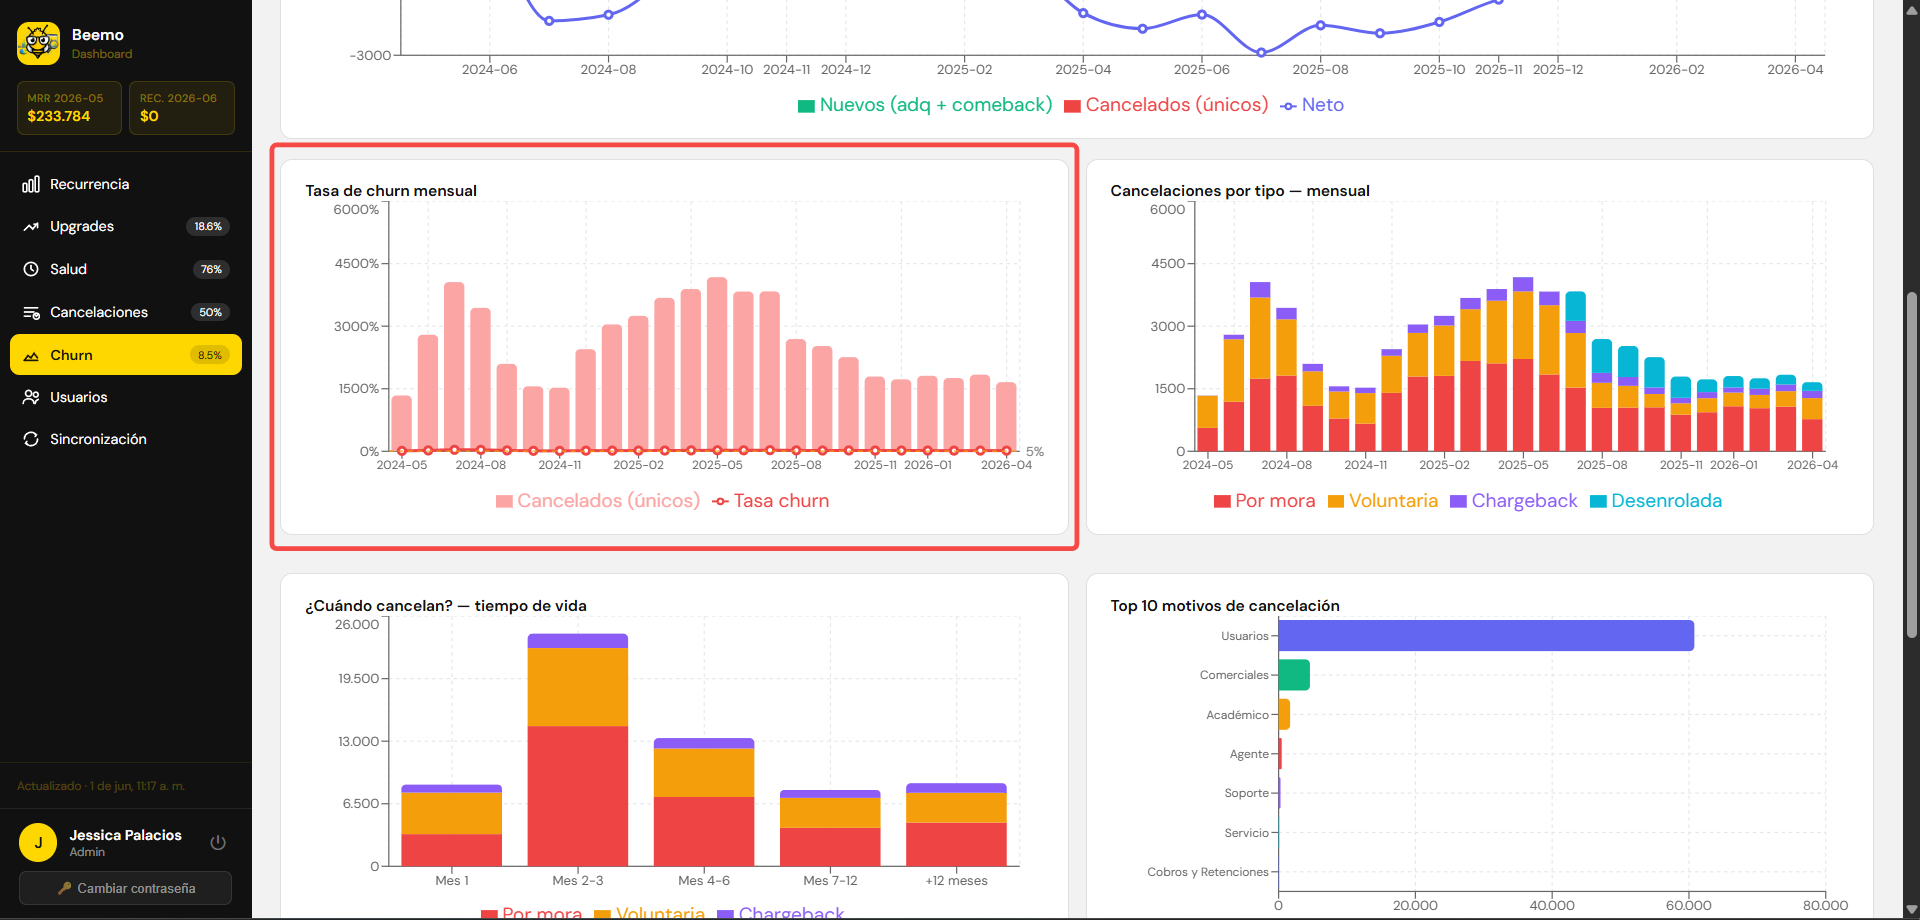
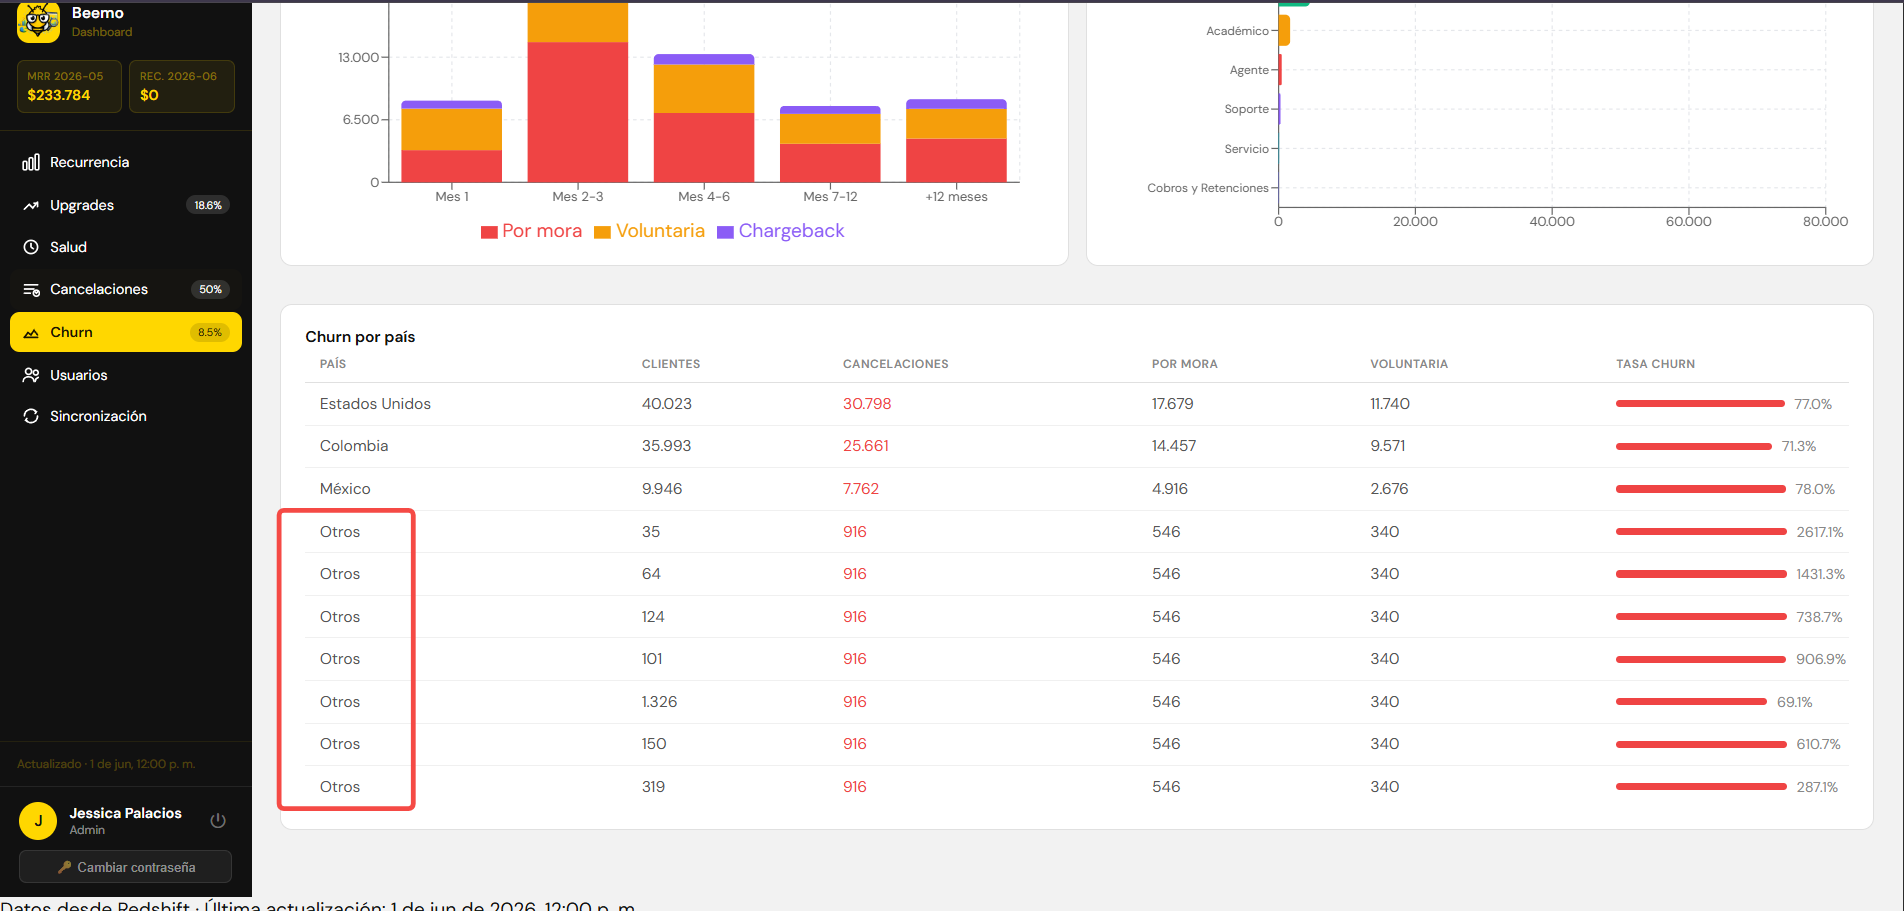
Fix: limitar vista de Churn al mes anterior para evitar distorsión Co-Authored-By: Claude Opus 4.8 <[email redacted]>

diff --git a/src/App.js b/src/App.js
@@ -424,7 +424,10 @@ function ChurnTab({data}){
   // Flujo combinado
   const mesesSet = new Set([...Object.keys(nuevosMes), ...Object.keys(cancelMes)]);
   const flujoData = Array.from(mesesSet).sort()
-    .filter(m => m >= '2024-05')
+    .filter(m => {
+      const currentMonth = new Date().toISOString().slice(0,7);
+      return m >= '2024-05' && m < currentMonth;
+    })
     .map(m => ({
       mes: m,
       nuevos:     nuevosMes[m]?.nuevos || 0,
@@ -434,12 +437,18 @@ function ChurnTab({data}){
 
   // Tasa de churn por mes
   const tasaData = (data.tasaChurn||[])
-    .filter(r => r.mes >= '2024-05')
+    .filter(r => {
+      const currentMonth = new Date().toISOString().slice(0,7);
+      return r.mes >= '2024-05' && r.mes < currentMonth;
+    })
     .map(r => ({mes:r.mes, tasa:+r.tasa_churn, clientes:+r.clientes_activos, cancelaciones:+r.cancelaciones}));
 
   // Cancelaciones apiladas por tipo y mes
   const cancelStack = Object.values(cancelMes)
-    .filter(d => d.mes >= '2024-05')
+    .filter(d => {
+      const currentMonth = new Date().toISOString().slice(0,7);
+      return d.mes >= '2024-05' && d.mes < currentMonth;
+    })
     .sort((a,b) => a.mes.localeCompare(b.mes));
 
   // Tiempo de vida — agrupar por rango